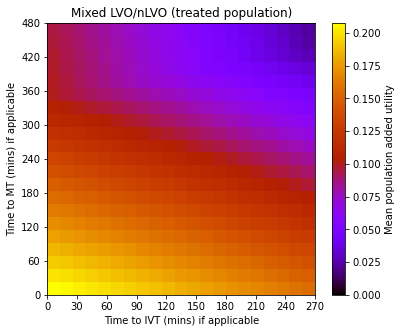
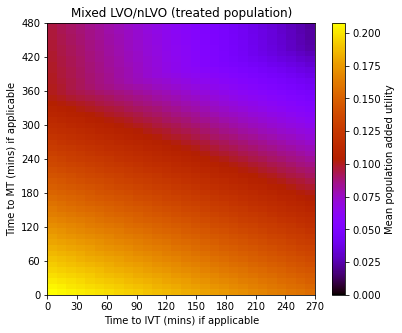
Update documentation

diff --git a/matrix.html b/matrix.html
@@ -644,8 +644,8 @@ title="Print to PDF"
 <span class="n">max_time_to_mt</span> <span class="o">=</span> <span class="mi">480</span>
 
 
-<span class="n">time_to_ivt</span> <span class="o">=</span> <span class="n">np</span><span class="o">.</span><span class="n">linspace</span><span class="p">(</span><span class="mi">0</span><span class="p">,</span> <span class="n">max_time_to_ivt</span><span class="p">,</span> <span class="mi">21</span><span class="p">)</span>
-<span class="n">time_to_mt</span> <span class="o">=</span> <span class="n">np</span><span class="o">.</span><span class="n">linspace</span><span class="p">(</span><span class="mi">0</span><span class="p">,</span> <span class="n">max_time_to_mt</span><span class="p">,</span> <span class="mi">21</span><span class="p">)</span>
+<span class="n">time_to_ivt</span> <span class="o">=</span> <span class="n">np</span><span class="o">.</span><span class="n">arange</span><span class="p">(</span><span class="mi">0</span><span class="p">,</span> <span class="n">max_time_to_ivt</span> <span class="o">+</span> <span class="mi">1</span><span class="p">,</span> <span class="mi">10</span><span class="p">)</span>
+<span class="n">time_to_mt</span> <span class="o">=</span> <span class="n">np</span><span class="o">.</span><span class="n">arange</span><span class="p">(</span><span class="mi">0</span><span class="p">,</span> <span class="n">max_time_to_mt</span> <span class="o">+</span> <span class="mi">1</span><span class="p">,</span> <span class="mi">10</span><span class="p">)</span>
 <span class="n">results</span> <span class="o">=</span> <span class="n">np</span><span class="o">.</span><span class="n">empty</span><span class="p">(</span><span class="n">shape</span><span class="o">=</span><span class="p">(</span><span class="nb">len</span><span class="p">(</span><span class="n">time_to_ivt</span><span class="p">),</span> <span class="nb">len</span><span class="p">(</span><span class="n">time_to_mt</span><span class="p">)))</span>
 
 <span class="k">for</span> <span class="n">x</span><span class="p">,</span> <span class="n">ivt</span> <span class="ow">in</span> <span class="nb">enumerate</span><span class="p">(</span><span class="n">time_to_ivt</span><span class="p">):</span>
